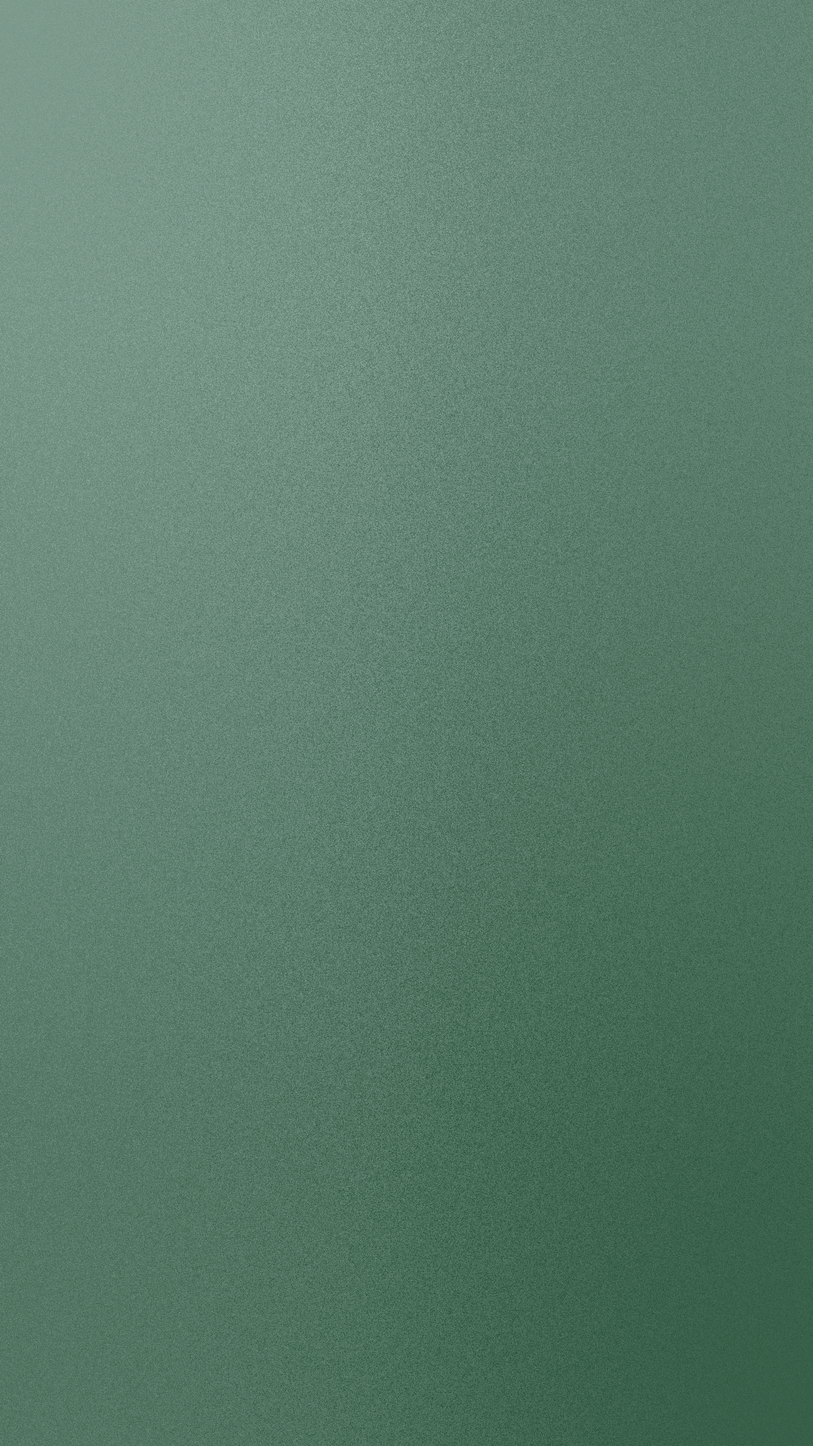
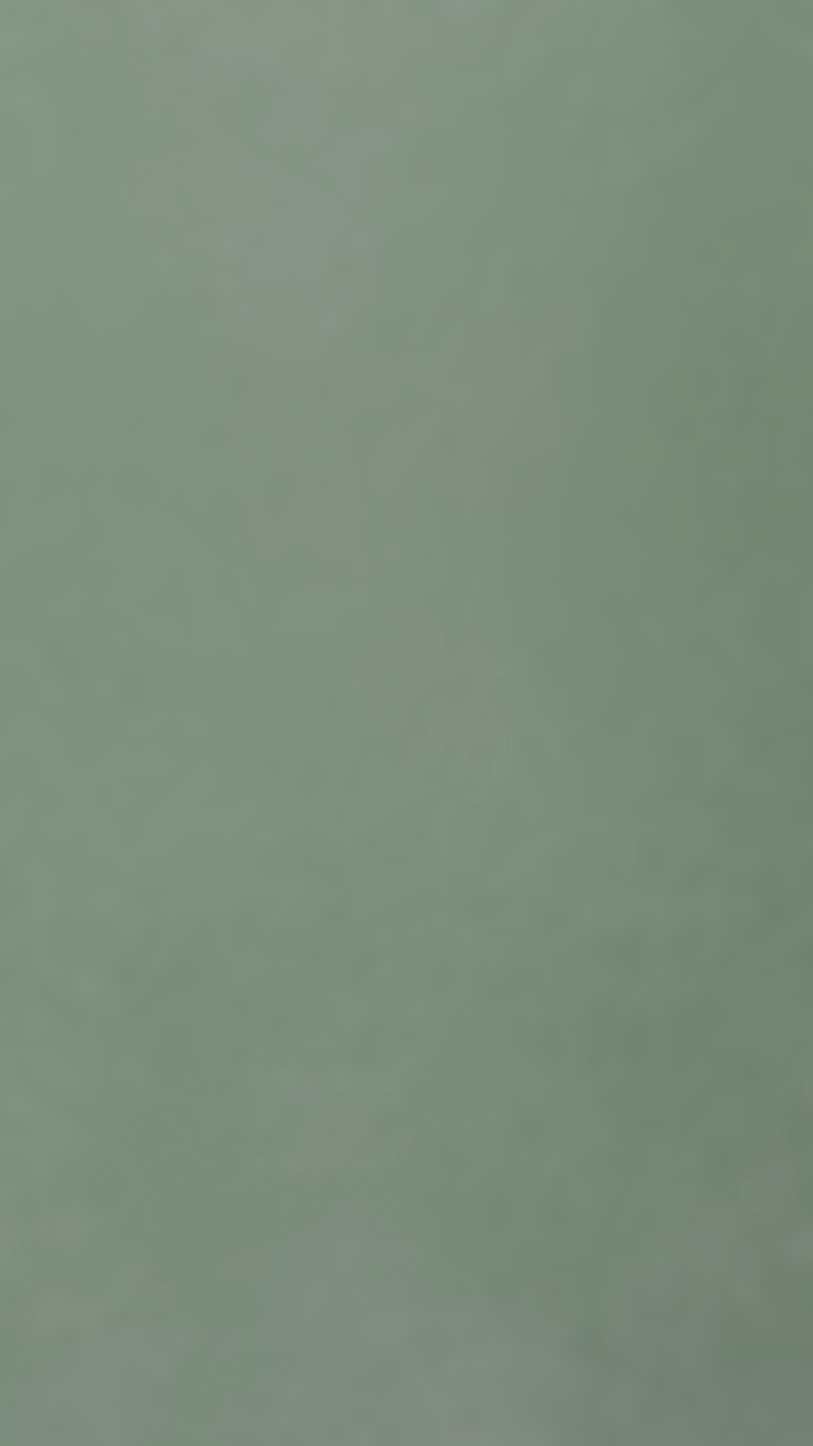
Changed the background for Clipet to be WAY better by using frosted glass, gradient mapping with two non-white colors, and the bokeh effect

diff --git a/FloraSaver/ReusableComponentViews/ClipetOverlayPage.xaml b/FloraSaver/ReusableComponentViews/ClipetOverlayPage.xaml
@@ -25,7 +25,7 @@
             x:Name="blur"
             Aspect="Fill"
             IsVisible="false"
-            Opacity=".1"
+            Opacity="1"
             Source="frosted_shade_green.png" />
         <Grid
             x:Name="clipetSpace"
